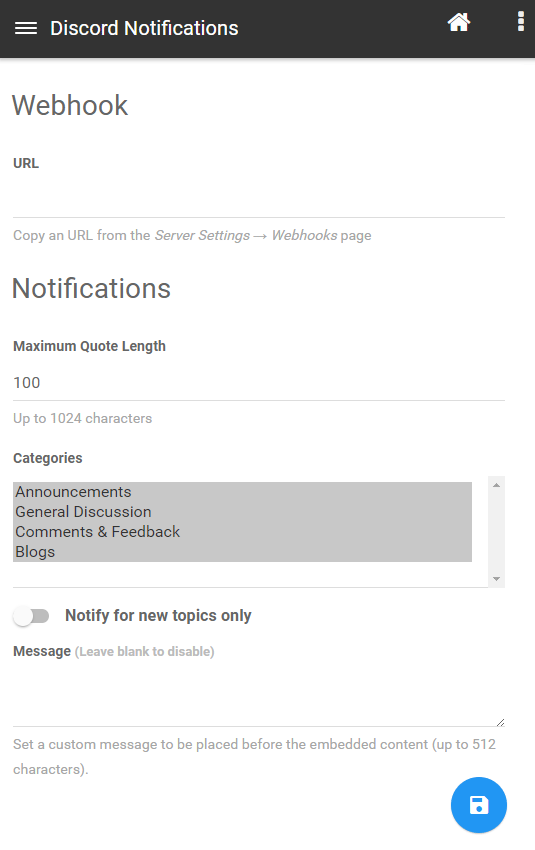
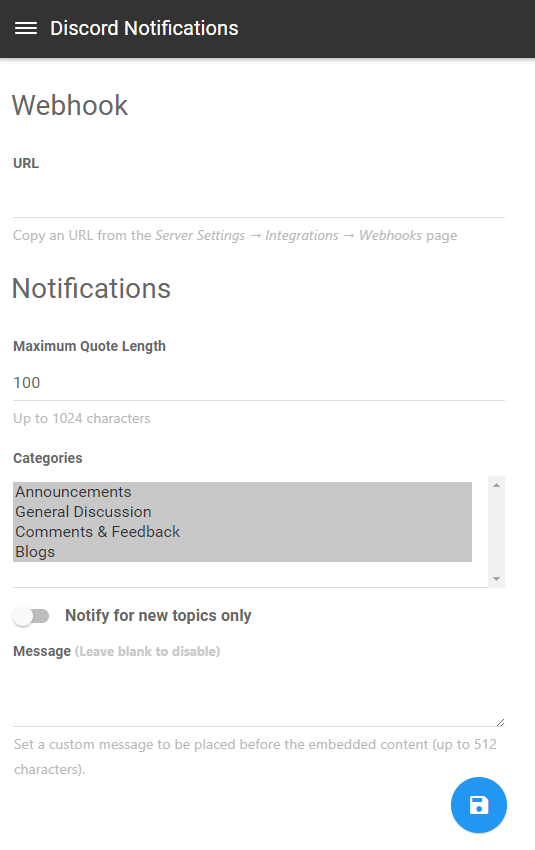
Update references to Discord UI

diff --git a/README.md b/README.md
@@ -9,7 +9,7 @@ It’s like [NodeBB Slack](https://github.com/pichalite/nodebb-plugin-slack-exte
 ## Configuration
 
 1. Install the plugin and activate it.
-2. Create a Discord webhook (Server Settings &rarr; Webhooks).  
+2. Create a Discord webhook (Server Settings &rarr; Integrations).  
     You’ll get an URL like `https://discord.com/api/webhooks/<Webhook ID>/<Webhook Token>`.
 3. Fill in **Webhook URL** field on the plugin settings page.
 4. Restart NodeBB.
